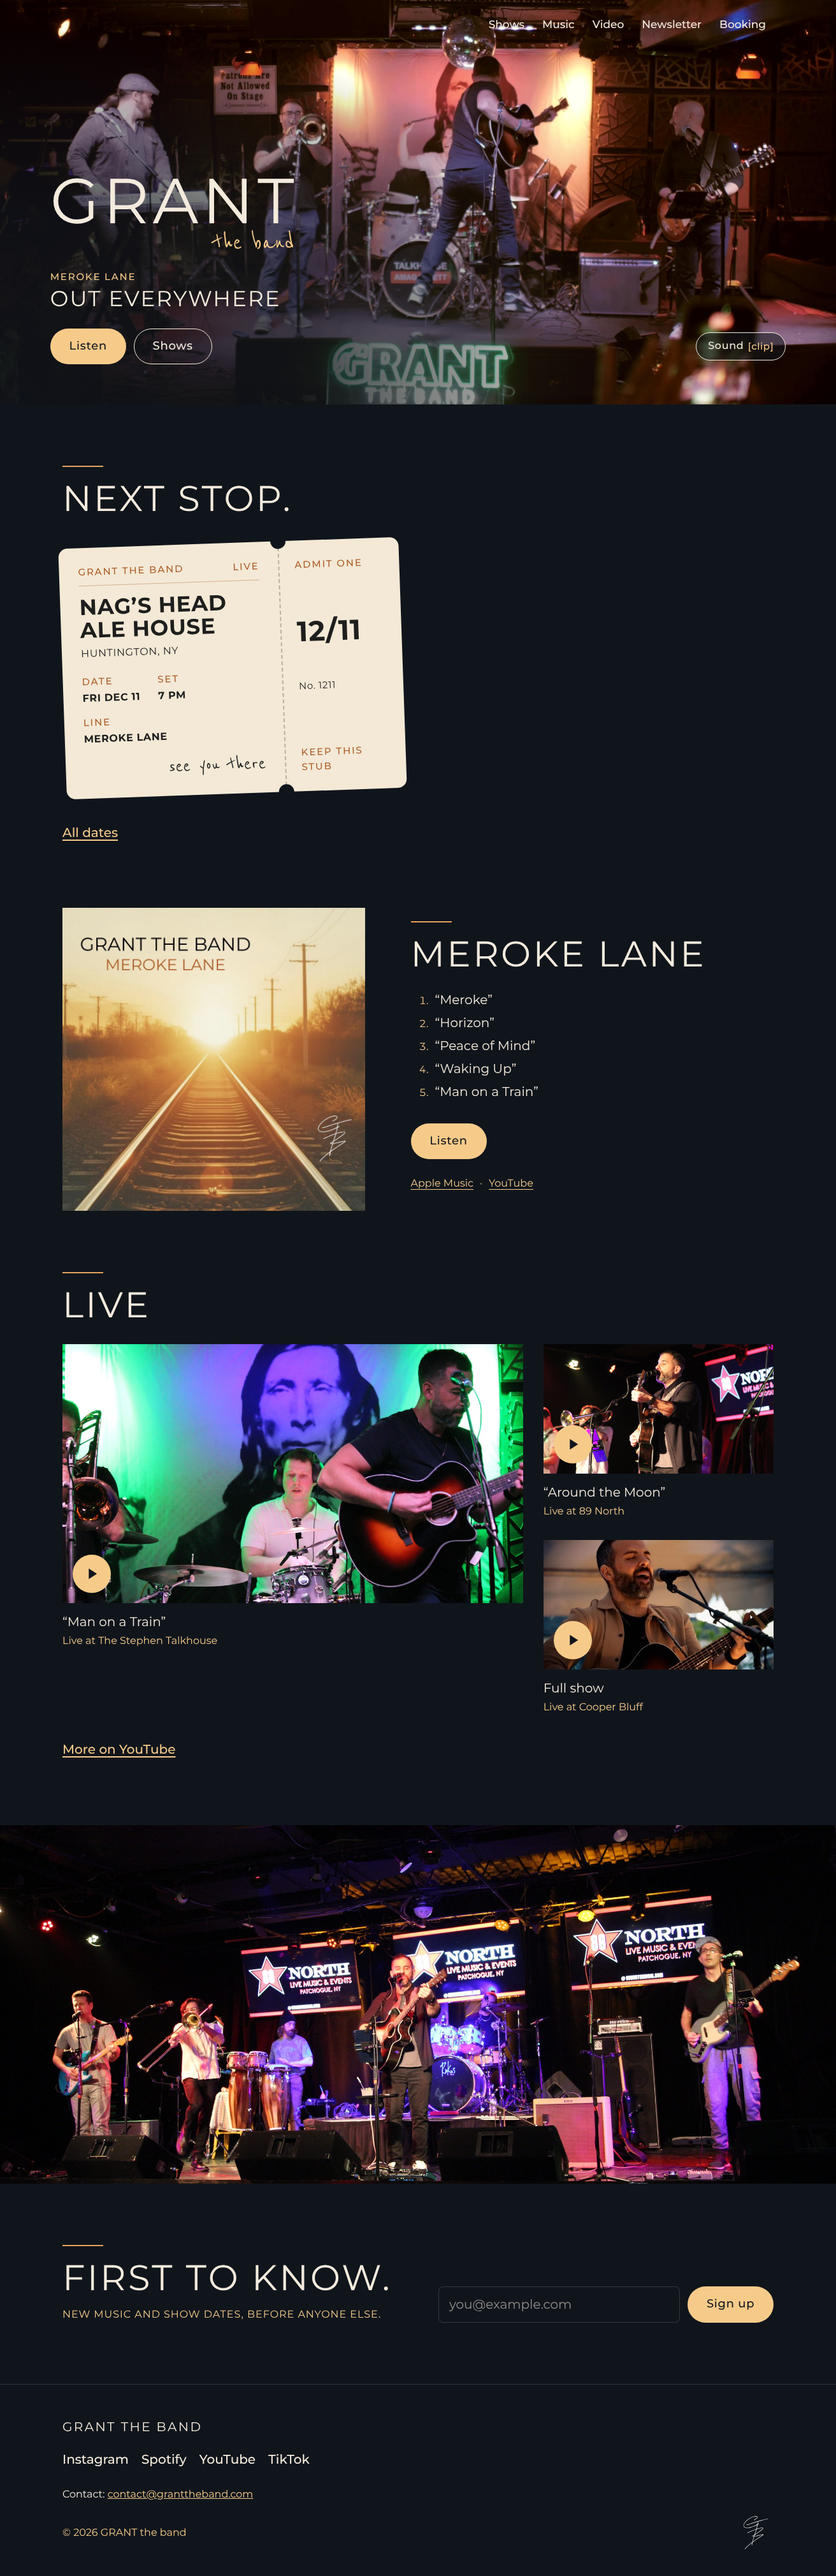
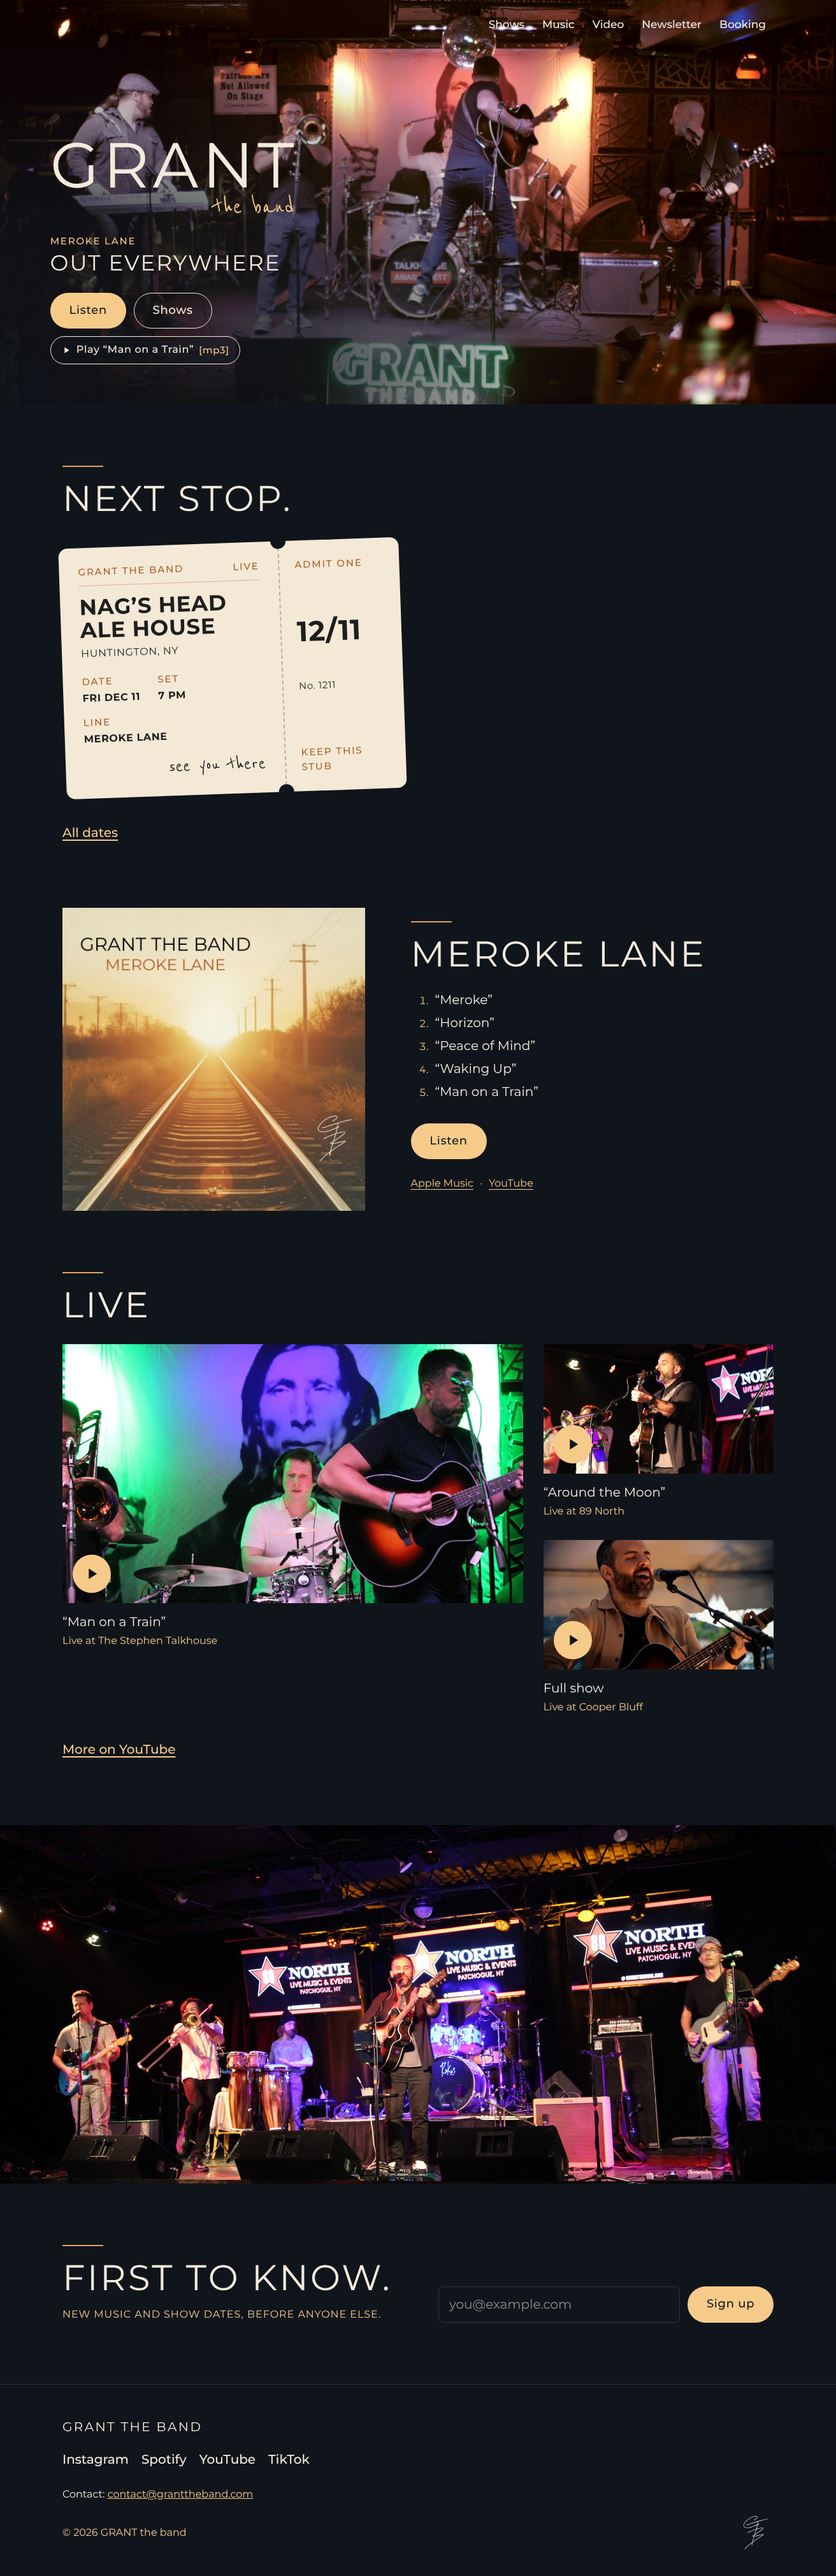
Hero: Play “Man on a Train” audio excerpt over the loop, then a Spotify link
Replaces the Sound on video swap. Hidden until public/audio/hero-song.mp3 exists.

Claude-Session: https://claude.ai/code/session_01W6jjmem6fid2ThtCrqmyVk

Changed region(s): [[0.0625, 0.0624, 0.3438, 0.156], [0.8438, 0.1248, 0.9375, 0.156]]

diff --git a/src/data/site.ts b/src/data/site.ts
@@ -7,6 +7,7 @@ export const SITE_URL = 'https://granttheband.com';
 export const links = {
   spotify: 'https://open.spotify.com/artist/7lsyuqqd27UuWS2mcYnSZe', // artist page: footer, socials
   merokeLaneSpotify: 'https://open.spotify.com/album/6sBrvYJHa66nYqVTg6bNa2', // the EP: every "Listen" button
+  manOnATrainSpotify: 'https://open.spotify.com/track/3Qhvz4YM1P0mKKuur6SoIG', // after the hero excerpt ends
   // Spotify player for the EP on home (dark theme). Loaded only near the viewport, never on /now.
   merokeLaneEmbed: 'https://open.spotify.com/embed/album/6sBrvYJHa66nYqVTg6bNa2?theme=0' as string | null,
   youtube: 'https://www.youtube.com/@GRANTtheband',
@@ -130,9 +131,8 @@ export function srcset(photo: Photo): string | undefined {
 export const hero = {
   videoDesktop: '/video/hero-desktop.mp4',
   videoPhone: '/video/hero-phone.mp4',
-  // "Sound on": the same shot with audio, played in place on tap. Fetched only on tap.
-  soundDesktop: '/video/hero-sound.mp4',
-  soundPhone: '/video/hero-sound-phone.mp4',
+  // "Play “Man on a Train”": an audio excerpt over the muted loop. Fetched only on tap.
+  song: '/audio/hero-song.mp3',
   posterDesktop: photos.heroDesktop,
   posterPhone: photos.heroPhone,
 };

diff --git a/CLAUDE.md b/CLAUDE.md
@@ -144,9 +144,9 @@ Use this copy as written. Typographic apostrophes and quotes. Never use em dashe
    - The logo is the H1.
    - Below: gold label "MEROKE LANE", then "OUT EVERYWHERE".
    - Buttons: "Listen" (to Meroke Lane on Spotify) and "Shows" (to `/shows`), under the label.
-   - "Sound on" pill: the last item in the Listen / Shows row, right-aligned, so it sits bottom-right in the text area and never over the jump. Phones (<900px): same 56px height as Listen / Shows, which get tighter side padding (0.9em) there so all three fit on one row down to 320px; under 360px the pill reads just "Sound" (`aria-pressed` carries on/off). Desktop: a 44px pill (16px label, cream outline on a translucent night fill), 6vw from the right, centered on the row.
-   - On tap it pauses the muted loop and plays `public/video/hero-sound.mp4` (portrait screens: `hero-sound-phone.mp4`, same rule as the loop so the framing matches) with audio, in place, under the same scrim. `preload="none"`: nothing is fetched until the tap. The pill reads "Sound off" (`aria-pressed`) while playing; tapping it or the clip ending returns to the muted loop (or the poster for reduced-motion visitors).
-   - The pill renders only once `hero-sound.mp4` exists. Until then previews show a placeholder pill and production shows nothing.
+   - Song button: its own row under Listen / Shows (a 44px pill, 16px label, cream outline on a translucent night fill; lighter than the page buttons), reading ▶ Play “Man on a Train” (the ▶ is an inline SVG, not an emoji). On tap it plays `public/audio/hero-song.mp3` (`preload="none"`: nothing is fetched until the tap) over the muted loop, which keeps playing. While it plays the button reads "Pause". When the excerpt ends it becomes a link, "Hear the full song on Spotify", to the track (`links.manOnATrainSpotify`, https://open.spotify.com/track/3Qhvz4YM1P0mKKuur6SoIG), opening in a new tab.
+   - The song button renders only once `hero-song.mp3` exists. Until then previews show a placeholder and production shows nothing. No video swap: the hero never replaces the loop.
+   - Short phones (max-height 720px) get tighter vertical spacing in the hero text so the extra row doesn't push the wordmark into the jump.
    - No tagline, no location line, no sub paragraph.
 2. Next stop (only when there are upcoming dates): title "NEXT STOP.", one ticket per show, link to `/shows`.
 3. Music (`#music`): cover art, title "MEROKE LANE" (heading only, no gold line), the Spotify player for the EP (`links.merokeLaneEmbed`, dark theme, 352px tall, full width of the text column, title "Listen to Meroke Lane on Spotify", no autoplay), one gold primary "Listen" button (the Spotify EP), then one row of small text links: Apple Music · YouTube. Text block vertically centered against the cover art.
@@ -227,7 +227,7 @@ Single phone-width column: wordmark, gold label "MEROKE LANE · OUT EVERYWHERE",
 
 ## Placeholders Noah still owes
 
-Logo SVG (the wordmark is still the type version), hero sound clips (`public/video/hero-sound.mp4` and `hero-sound-phone.mp4`), `now.json` content, Search Console token, Cloudflare Web Analytics token. Labeled placeholders show on previews only.
+Logo SVG (the wordmark is still the type version), the hero song excerpt (`public/audio/hero-song.mp3`), `now.json` content, Search Console token, Cloudflare Web Analytics token. Labeled placeholders show on previews only.
 
 ## Production guard
 
